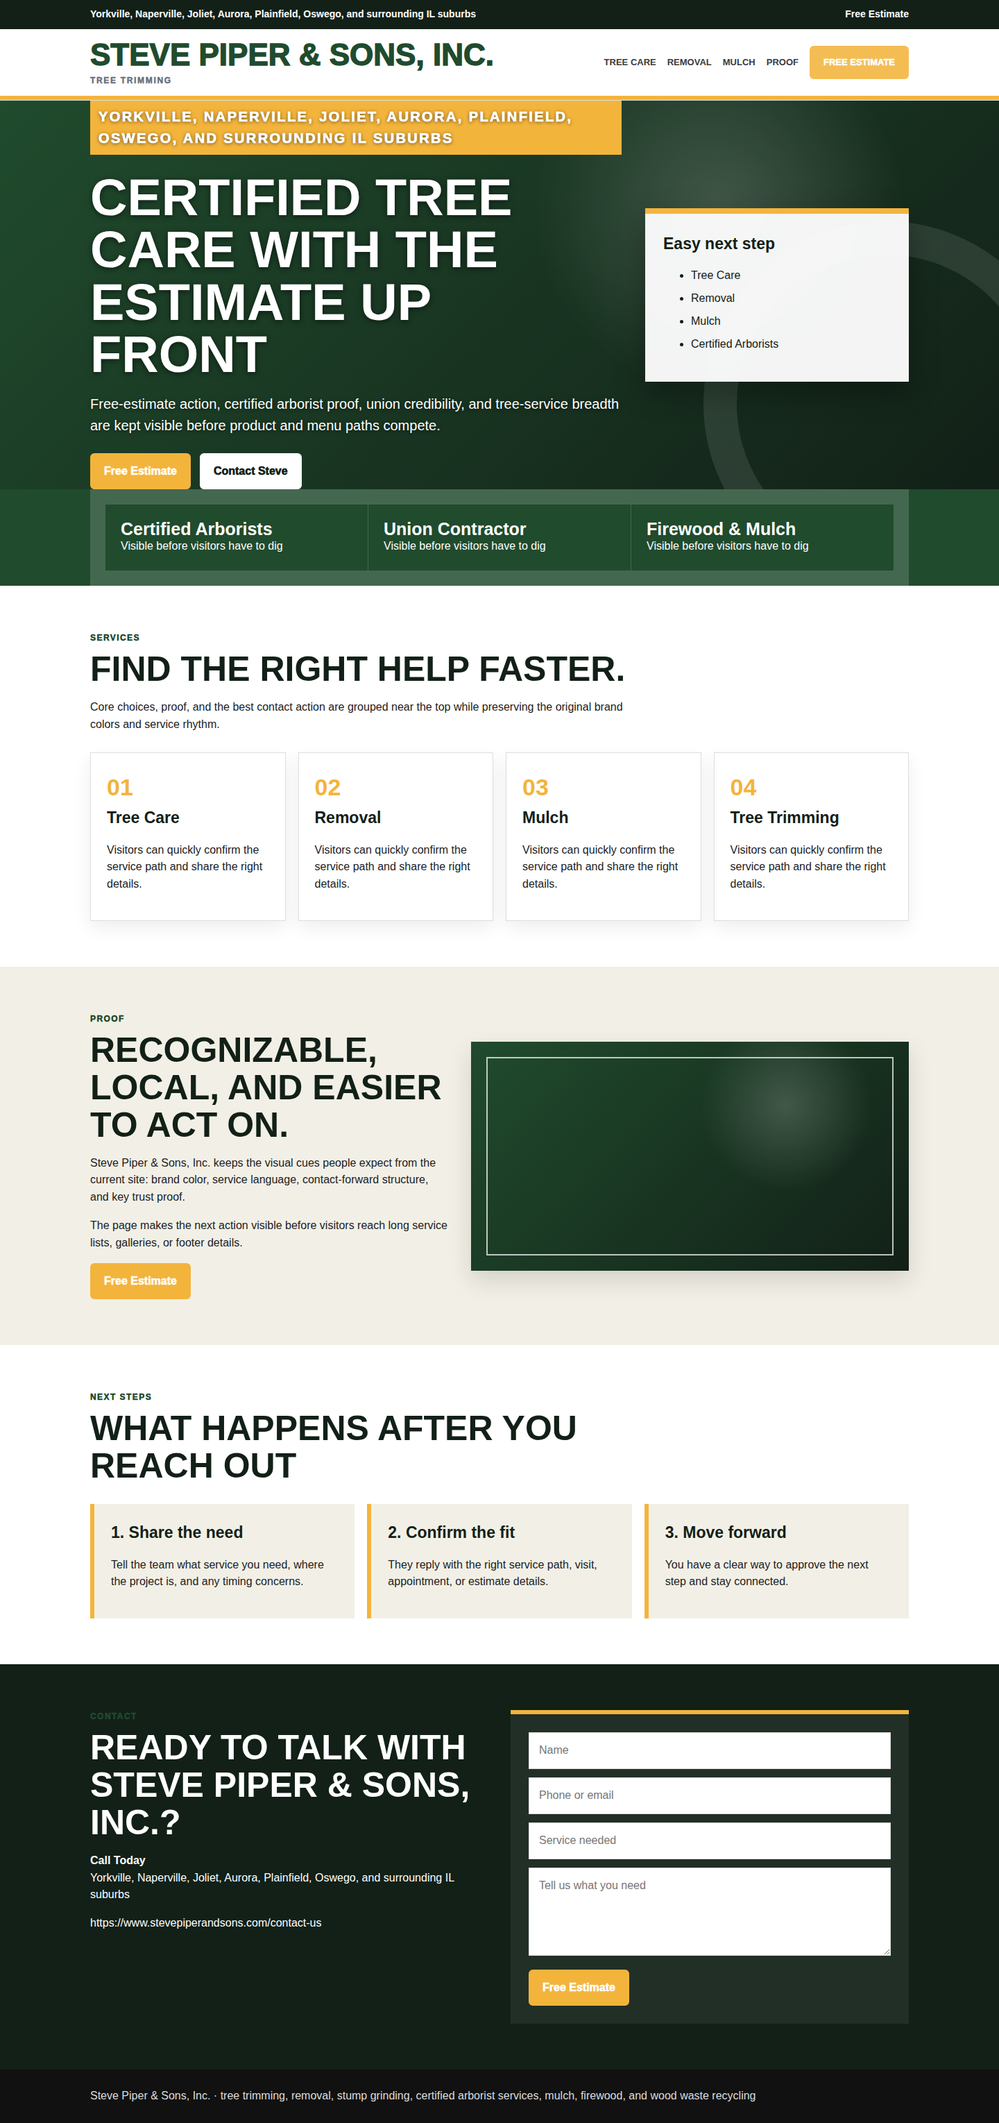
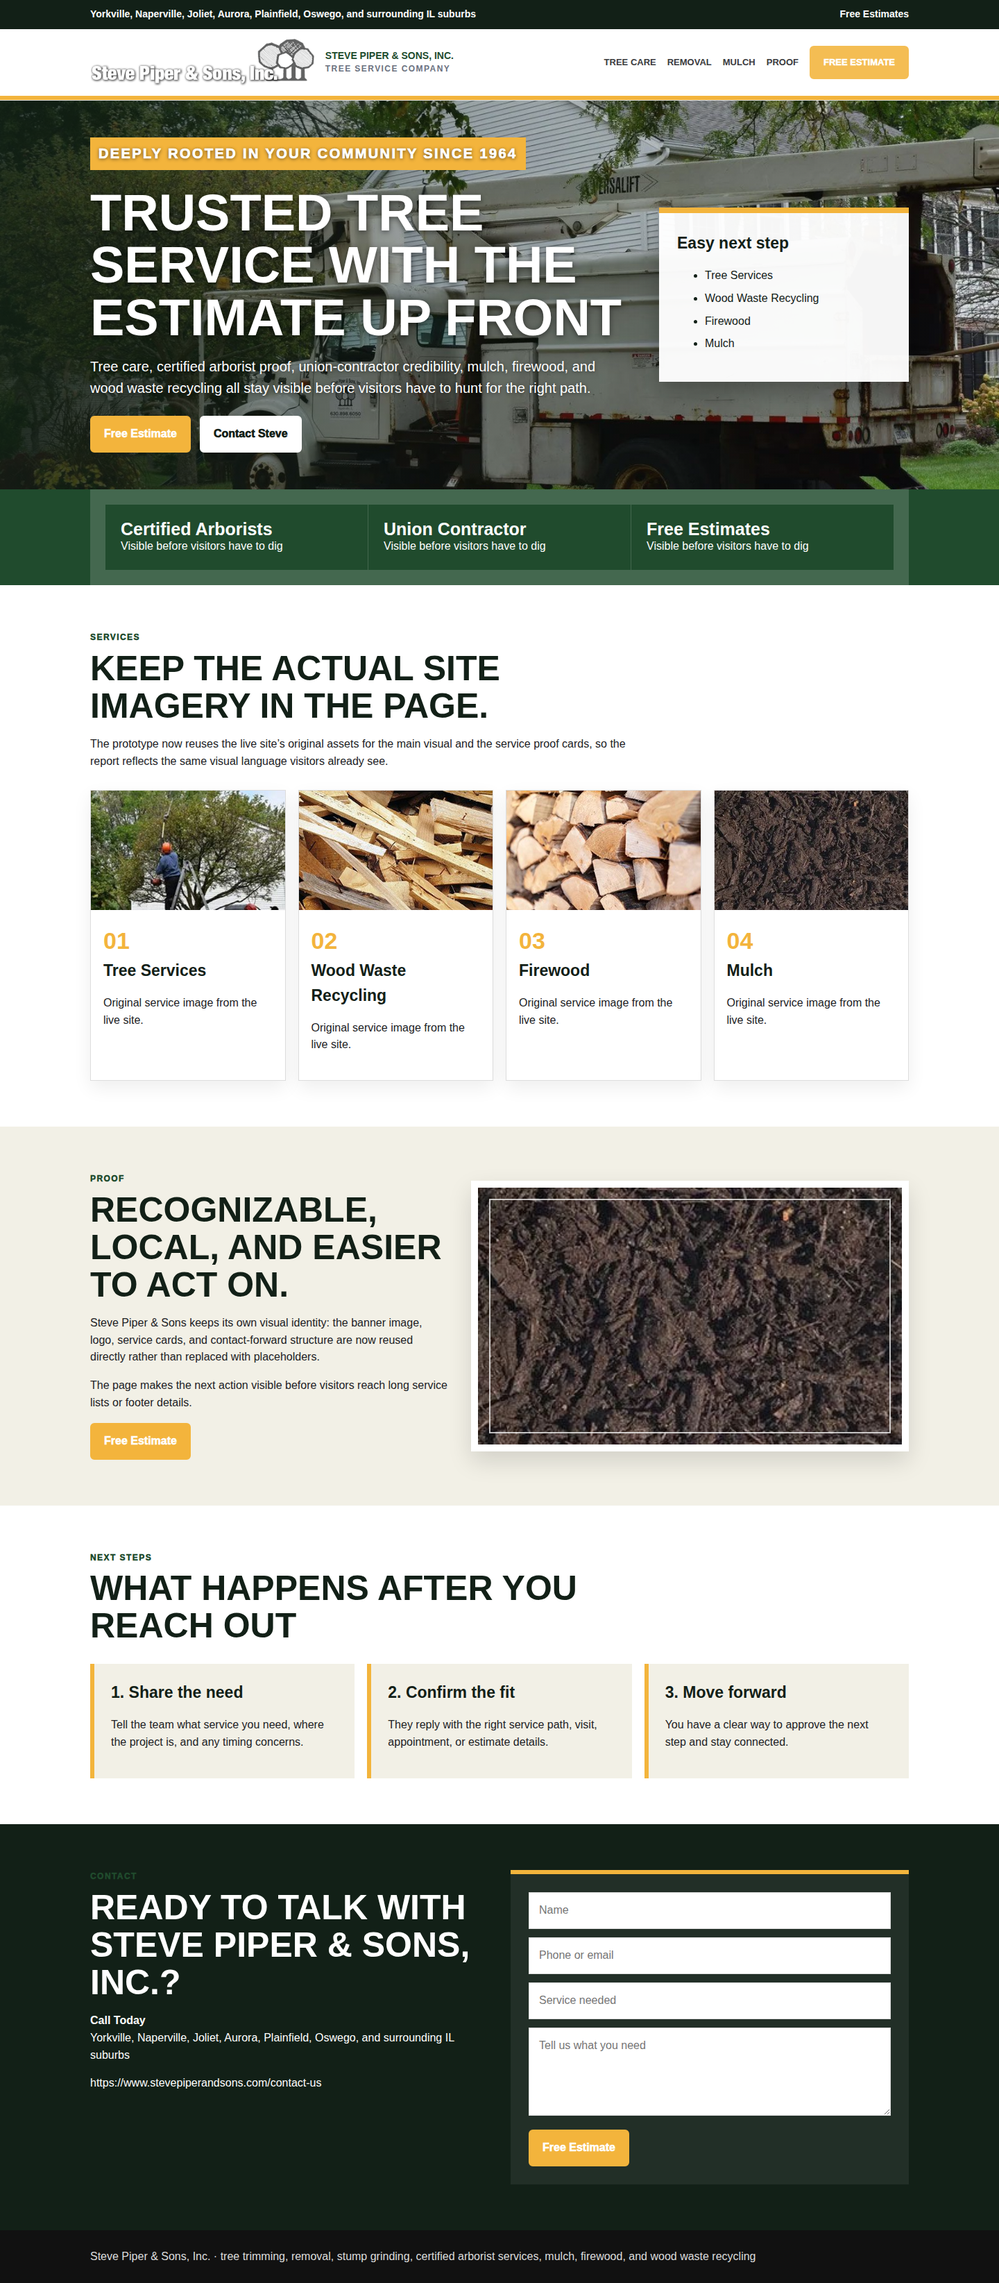
Fix Steve Piper prototype image reuse and report screenshot

diff --git a/prototypes/2026-04-29-0110-overnight-10/steve-piper-and-sons/index.html b/prototypes/2026-04-29-0110-overnight-10/steve-piper-and-sons/index.html
@@ -1,1 +1,2 @@
-<!doctype html><html lang="en"><head><meta charset="utf-8"><meta name="viewport" content="width=device-width, initial-scale=1"><title>Steve Piper &amp; Sons, Inc. | tree trimming, removal, stump grinding, certified arborist services, mulch, firewood, and wood waste recycling</title><meta name="description" content="Steve Piper &amp; Sons, Inc. presents tree trimming, removal, stump grinding, certified arborist services, mulch, firewood, and wood waste recycling options, proof, and a clear next step."><style>*{box-sizing:border-box}html{scroll-behavior:smooth}body{margin:0;font-family:Arial, Helvetica, sans-serif;background:#f2f0e6;color:#202124;line-height:1.55}a{text-decoration:none;color:inherit}.wrap{width:min(1180px,calc(100% - 36px));margin:auto}.top{background:#122017;color:#fff;font-size:14px;font-weight:850}.top .wrap{display:flex;justify-content:space-between;gap:16px;padding:10px 0;flex-wrap:wrap}.header{background:#fff;border-bottom:1px solid #dedede}.head{display:grid;grid-template-columns:1fr auto;gap:24px;align-items:center;min-height:96px}.brand{font-size:clamp(28px,3.8vw,44px);font-weight:950;line-height:1.02;color:#204b2d;text-transform:uppercase}.brand small{display:block;color:#6b7280;font-size:12px;letter-spacing:.14em;text-transform:uppercase;margin-top:8px}.nav{display:flex;gap:16px;align-items:center;justify-content:flex-end;flex-wrap:wrap;font-size:13px;font-weight:900;text-transform:uppercase}.nav a{opacity:.88}.btn{display:inline-block;background:#f3b43c;border:2px solid #f3b43c;color:#fff;font-weight:950;padding:12px 18px;border-radius:6px}.bar{height:6px;background:#f3b43c}.hero{min-height:555px;color:#fff;background:radial-gradient(circle at 72% 28%,rgba(255,255,255,.18),transparent 24%),linear-gradient(135deg,#204b2d,#122017);position:relative;overflow:hidden;display:flex;align-items:center}.hero:after{content:"";position:absolute;right:-100px;bottom:-140px;width:430px;height:430px;border-radius:50%;border:48px solid rgba(255,255,255,.10)}.hero .wrap{position:relative;z-index:1;display:grid;grid-template-columns:1fr 380px;gap:34px;align-items:center}.eyebrow{display:inline-block;background:#f3b43c;color:#fff;font-size:12px;font-weight:950;letter-spacing:.12em;text-transform:uppercase;padding:8px 12px;margin-bottom:14px}.hero h1{font-size:clamp(42px,6vw,74px);line-height:1.02;margin:0 0 18px;text-transform:uppercase;text-shadow:0 2px 8px #0008}.hero p{font-size:20px;max-width:780px;text-shadow:0 1px 5px #0008;margin:0 0 24px}.actions{display:flex;gap:13px;flex-wrap:wrap}.btn.secondary{background:#fff;border-color:#fff;color:#122017}.panel{background:rgba(255,255,255,.95);color:#122017;padding:26px;border-top:8px solid #f3b43c;box-shadow:0 16px 40px #0005}.panel h3{margin:0 0 10px}.panel li{margin:8px 0}.trust{background:#204b2d;color:#fff}.trust .wrap{display:grid;grid-template-columns:repeat(3,1fr);gap:1px;background:#ffffff2a}.trust div{padding:22px;background:#204b2d}.trust strong{display:block;font-size:25px;line-height:1.04}.section{background:#fff;padding:66px 0}.section.band{background:#f2f0e6}.intro{max-width:780px;margin-bottom:28px}.kicker{color:#204b2d;font-size:12px;font-weight:950;text-transform:uppercase;letter-spacing:.12em;margin-bottom:8px}h2{font-size:clamp(30px,4vw,50px);line-height:1.08;margin:0 0 14px;color:#122017;text-transform:uppercase}h3{margin:0 0 8px;color:#122017;font-size:23px}.cards{display:grid;grid-template-columns:repeat(4,1fr);gap:18px}.card{background:#fff;border:1px solid #ddd;padding:23px;box-shadow:0 10px 25px #00000012}.card b{display:block;font-size:34px;color:#f3b43c}.split{display:grid;grid-template-columns:.9fr 1.1fr;gap:32px;align-items:center}.photo{min-height:330px;background:radial-gradient(circle at 72% 28%,rgba(255,255,255,.18),transparent 24%),linear-gradient(135deg,#204b2d,#122017);position:relative;box-shadow:0 14px 32px #0002}.photo:before{content:"";position:absolute;inset:22px;border:2px solid rgba(255,255,255,.72)}.steps{display:grid;grid-template-columns:repeat(3,1fr);gap:18px}.step{background:#f2f0e6;padding:24px;border-left:6px solid #f3b43c}.contact{background:#122017;color:#fff}.contact h2{color:#fff}.contactgrid{display:grid;grid-template-columns:1fr 1fr;gap:32px}.form{background:#ffffff12;border-top:6px solid #f3b43c;padding:26px}.field{width:100%;padding:13px 14px;margin-bottom:12px;border:1px solid #ddd;font:inherit}.footer{padding:26px 0;background:#111;color:#ddd}@media(max-width:900px){.head,.hero .wrap,.split,.contactgrid{grid-template-columns:1fr}.cards,.steps,.trust .wrap{grid-template-columns:1fr}.nav a:not(.btn){display:none}.hero{min-height:480px}}</style></head><body><div class="top"><div class="wrap"><span>Yorkville, Naperville, Joliet, Aurora, Plainfield, Oswego, and surrounding IL suburbs</span><span>Free Estimate</span></div></div><header class="header"><div class="wrap head"><div class="brand">Steve Piper &amp; Sons, Inc.<small>tree trimming</small></div><nav class="nav"><a href="#services">Tree Care</a><a href="#services">Removal</a><a href="#services">Mulch</a><a href="#proof">Proof</a><a class="btn" href="#contact">Free Estimate</a></nav></div><div class="bar"></div></header><main><section class="hero"><div class="wrap"><div><p class="eyebrow">Yorkville, Naperville, Joliet, Aurora, Plainfield, Oswego, and surrounding IL suburbs</p><h1>Certified Tree Care With The Estimate Up Front</h1><p>Free-estimate action, certified arborist proof, union credibility, and tree-service breadth are kept visible before product and menu paths compete.</p><div class="actions"><a class="btn" href="#contact">Free Estimate</a><a class="btn secondary" href="https://www.stevepiperandsons.com/contact-us">Contact Steve</a></div></div><aside class="panel"><h3>Easy next step</h3><ul><li>Tree Care</li><li>Removal</li><li>Mulch</li><li>Certified Arborists</li></ul></aside></div></section><section class="trust"><div class="wrap"><div><strong>Certified Arborists</strong><span>Visible before visitors have to dig</span></div><div><strong>Union Contractor</strong><span>Visible before visitors have to dig</span></div><div><strong>Firewood &amp; Mulch</strong><span>Visible before visitors have to dig</span></div></div></section><section class="section" id="services"><div class="wrap"><div class="intro"><div class="kicker">Services</div><h2>Find the right help faster.</h2><p>Core choices, proof, and the best contact action are grouped near the top while preserving the original brand colors and service rhythm.</p></div><div class="cards"><article class="card"><b>01</b><h3>Tree Care</h3><p>Visitors can quickly confirm the service path and share the right details.</p></article><article class="card"><b>02</b><h3>Removal</h3><p>Visitors can quickly confirm the service path and share the right details.</p></article><article class="card"><b>03</b><h3>Mulch</h3><p>Visitors can quickly confirm the service path and share the right details.</p></article><article class="card"><b>04</b><h3>Tree Trimming</h3><p>Visitors can quickly confirm the service path and share the right details.</p></article></div></div></section><section class="section band" id="proof"><div class="wrap split"><div><div class="kicker">Proof</div><h2>Recognizable, local, and easier to act on.</h2><p>Steve Piper &amp; Sons, Inc. keeps the visual cues people expect from the current site: brand color, service language, contact-forward structure, and key trust proof.</p><p>The page makes the next action visible before visitors reach long service lists, galleries, or footer details.</p><a class="btn" href="#contact">Free Estimate</a></div><div class="photo" role="img" aria-label="Steve Piper &amp; Sons, Inc. service visual"></div></div></section><section class="section"><div class="wrap"><div class="intro"><div class="kicker">Next steps</div><h2>What happens after you reach out</h2></div><div class="steps"><div class="step"><h3>1. Share the need</h3><p>Tell the team what service you need, where the project is, and any timing concerns.</p></div><div class="step"><h3>2. Confirm the fit</h3><p>They reply with the right service path, visit, appointment, or estimate details.</p></div><div class="step"><h3>3. Move forward</h3><p>You have a clear way to approve the next step and stay connected.</p></div></div></div></section><section class="section contact" id="contact"><div class="wrap contactgrid"><div><div class="kicker">Contact</div><h2>Ready to talk with Steve Piper &amp; Sons, Inc.?</h2><p><strong>Call Today</strong><br>Yorkville, Naperville, Joliet, Aurora, Plainfield, Oswego, and surrounding IL suburbs</p><p><a href="https://www.stevepiperandsons.com/contact-us">https://www.stevepiperandsons.com/contact-us</a></p></div><div class="form"><input class="field" placeholder="Name"><input class="field" placeholder="Phone or email"><input class="field" placeholder="Service needed"><textarea class="field" rows="4" placeholder="Tell us what you need"></textarea><a class="btn" href="https://www.stevepiperandsons.com/contact-us">Free Estimate</a></div></div></section></main><footer class="footer"><div class="wrap">Steve Piper &amp; Sons, Inc. · tree trimming, removal, stump grinding, certified arborist services, mulch, firewood, and wood waste recycling</div></footer></body></html>
+<!doctype html><html lang="en"><head><meta charset="utf-8"><meta name="viewport" content="width=device-width, initial-scale=1"><title>Steve Piper &amp; Sons, Inc. | tree trimming, removal, stump grinding, certified arborist services, mulch, firewood, and wood waste recycling</title><meta name="description" content="Steve Piper &amp; Sons, Inc. presents tree trimming, removal, stump grinding, certified arborist services, mulch, firewood, and wood waste recycling options, proof, and a clear next step."><style>*{box-sizing:border-box}html{scroll-behavior:smooth}body{margin:0;font-family:Arial, Helvetica, sans-serif;background:#f2f0e6;color:#202124;line-height:1.55}a{text-decoration:none;color:inherit}.wrap{width:min(1180px,calc(100% - 36px));margin:auto}.top{background:#122017;color:#fff;font-size:14px;font-weight:850}.top .wrap{display:flex;justify-content:space-between;gap:16px;padding:10px 0;flex-wrap:wrap}.header{background:#fff;border-bottom:1px solid #dedede}.head{display:grid;grid-template-columns:auto 1fr;gap:18px;align-items:center;min-height:96px}.logo{height:68px;width:auto;display:block}.nav{display:flex;gap:16px;align-items:center;justify-content:flex-end;flex-wrap:wrap;font-size:13px;font-weight:900;text-transform:uppercase}.nav a{opacity:.88}.btn{display:inline-block;background:#f3b43c;border:2px solid #f3b43c;color:#fff;font-weight:950;padding:12px 18px;border-radius:6px}.bar{height:6px;background:#f3b43c}.hero{min-height:560px;color:#fff;background:linear-gradient(90deg,rgba(18,32,23,.82),rgba(18,32,23,.36) 42%,rgba(18,32,23,.08)),url("assets/banner.jpg") center/cover no-repeat;position:relative;overflow:hidden;display:flex;align-items:center}.hero .wrap{position:relative;z-index:1;display:grid;grid-template-columns:1fr 360px;gap:34px;align-items:center}.eyebrow{display:inline-block;background:#f3b43c;color:#fff;font-size:12px;font-weight:950;letter-spacing:.12em;text-transform:uppercase;padding:8px 12px;margin-bottom:14px}.hero h1{font-size:clamp(42px,6vw,74px);line-height:1.02;margin:0 0 18px;text-transform:uppercase;text-shadow:0 2px 8px #0008}.hero p{font-size:20px;max-width:780px;text-shadow:0 1px 5px #0008;margin:0 0 24px}.actions{display:flex;gap:13px;flex-wrap:wrap}.btn.secondary{background:#fff;border-color:#fff;color:#122017}.panel{background:rgba(255,255,255,.96);color:#122017;padding:26px;border-top:8px solid #f3b43c;box-shadow:0 16px 40px #0005}.panel h3{margin:0 0 10px}.panel li{margin:8px 0}.trust{background:#204b2d;color:#fff}.trust .wrap{display:grid;grid-template-columns:repeat(3,1fr);gap:1px;background:#ffffff2a}.trust div{padding:22px;background:#204b2d}.trust strong{display:block;font-size:25px;line-height:1.04}.section{background:#fff;padding:66px 0}.section.band{background:#f2f0e6}.intro{max-width:780px;margin-bottom:28px}.kicker{color:#204b2d;font-size:12px;font-weight:950;text-transform:uppercase;letter-spacing:.12em;margin-bottom:8px}h2{font-size:clamp(30px,4vw,50px);line-height:1.08;margin:0 0 14px;color:#122017;text-transform:uppercase}h3{margin:0 0 8px;color:#122017;font-size:23px}.cards{display:grid;grid-template-columns:repeat(4,1fr);gap:18px}.card{background:#fff;border:1px solid #ddd;padding:0;box-shadow:0 10px 25px #00000012;overflow:hidden}.card img{display:block;width:100%;height:172px;object-fit:cover}.card .pad{padding:18px 18px 22px}.card b{display:block;font-size:34px;color:#f3b43c}.split{display:grid;grid-template-columns:.9fr 1.1fr;gap:32px;align-items:center}.photo{min-height:390px;background:#ddd url("assets/mulch.jpg") center/cover no-repeat;position:relative;box-shadow:0 14px 32px #0002;border:10px solid #fff}.photo:before{content:"";position:absolute;inset:16px;border:2px solid rgba(255,255,255,.72)}.steps{display:grid;grid-template-columns:repeat(3,1fr);gap:18px}.step{background:#f2f0e6;padding:24px;border-left:6px solid #f3b43c}.contact{background:#122017;color:#fff}.contact h2{color:#fff}.contactgrid{display:grid;grid-template-columns:1fr 1fr;gap:32px}.form{background:#ffffff12;border-top:6px solid #f3b43c;padding:26px}.field{width:100%;padding:13px 14px;margin-bottom:12px;border:1px solid #ddd;font:inherit}.footer{padding:26px 0;background:#111;color:#ddd}.logo-row{display:flex;align-items:center;gap:16px}.brand-text{font-size:14px;font-weight:900;line-height:1.1;color:#204b2d;text-transform:uppercase}.brand-text small{display:block;color:#6b7280;font-size:12px;letter-spacing:.12em;text-transform:uppercase;margin-top:4px}@media(max-width:900px){.head,.hero .wrap,.split,.contactgrid{grid-template-columns:1fr}.cards,.steps,.trust .wrap{grid-template-columns:1fr}.nav a:not(.btn){display:none}.hero{min-height:480px}}
+</style></head><body><div class="top"><div class="wrap"><span>Yorkville, Naperville, Joliet, Aurora, Plainfield, Oswego, and surrounding IL suburbs</span><span>Free Estimates</span></div></div><header class="header"><div class="wrap head"><div class="logo-row"><img class="logo" src="assets/logo.png" alt="Steve Piper & Sons, Inc. logo"><div class="brand-text">Steve Piper & Sons, Inc.<small>tree service company</small></div></div><nav class="nav"><a href="#services">Tree Care</a><a href="#services">Removal</a><a href="#services">Mulch</a><a href="#proof">Proof</a><a class="btn" href="#contact">Free Estimate</a></nav></div><div class="bar"></div></header><main><section class="hero"><div class="wrap"><div><p class="eyebrow">Deeply rooted in your community since 1964</p><h1>Trusted Tree Service With The Estimate Up Front</h1><p>Tree care, certified arborist proof, union-contractor credibility, mulch, firewood, and wood waste recycling all stay visible before visitors have to hunt for the right path.</p><div class="actions"><a class="btn" href="#contact">Free Estimate</a><a class="btn secondary" href="https://www.stevepiperandsons.com/contact-us">Contact Steve</a></div></div><aside class="panel"><h3>Easy next step</h3><ul><li>Tree Services</li><li>Wood Waste Recycling</li><li>Firewood</li><li>Mulch</li></ul></aside></div></section><section class="trust"><div class="wrap"><div><strong>Certified Arborists</strong><span>Visible before visitors have to dig</span></div><div><strong>Union Contractor</strong><span>Visible before visitors have to dig</span></div><div><strong>Free Estimates</strong><span>Visible before visitors have to dig</span></div></div></section><section class="section" id="services"><div class="wrap"><div class="intro"><div class="kicker">Services</div><h2>Keep the actual site imagery in the page.</h2><p>The prototype now reuses the live site’s original assets for the main visual and the service proof cards, so the report reflects the same visual language visitors already see.</p></div><div class="cards"><article class="card"><img src="assets/tree-services.jpg" alt="Tree Services"><div class="pad"><b>01</b><h3>Tree Services</h3><p>Original service image from the live site.</p></div></article><article class="card"><img src="assets/wood-waste-recycling.jpg" alt="Wood Waste Recycling"><div class="pad"><b>02</b><h3>Wood Waste Recycling</h3><p>Original service image from the live site.</p></div></article><article class="card"><img src="assets/firewood.jpg" alt="Firewood"><div class="pad"><b>03</b><h3>Firewood</h3><p>Original service image from the live site.</p></div></article><article class="card"><img src="assets/mulch.jpg" alt="Mulch"><div class="pad"><b>04</b><h3>Mulch</h3><p>Original service image from the live site.</p></div></article></div></div></section><section class="section band" id="proof"><div class="wrap split"><div><div class="kicker">Proof</div><h2>Recognizable, local, and easier to act on.</h2><p>Steve Piper & Sons keeps its own visual identity: the banner image, logo, service cards, and contact-forward structure are now reused directly rather than replaced with placeholders.</p><p>The page makes the next action visible before visitors reach long service lists or footer details.</p><a class="btn" href="#contact">Free Estimate</a></div><div class="photo" role="img" aria-label="Steve Piper & Sons mulch image from the live site"></div></div></section><section class="section"><div class="wrap"><div class="intro"><div class="kicker">Next steps</div><h2>What happens after you reach out</h2></div><div class="steps"><div class="step"><h3>1. Share the need</h3><p>Tell the team what service you need, where the project is, and any timing concerns.</p></div><div class="step"><h3>2. Confirm the fit</h3><p>They reply with the right service path, visit, appointment, or estimate details.</p></div><div class="step"><h3>3. Move forward</h3><p>You have a clear way to approve the next step and stay connected.</p></div></div></div></section><section class="section contact" id="contact"><div class="wrap contactgrid"><div><div class="kicker">Contact</div><h2>Ready to talk with Steve Piper & Sons, Inc.?</h2><p><strong>Call Today</strong><br>Yorkville, Naperville, Joliet, Aurora, Plainfield, Oswego, and surrounding IL suburbs</p><p><a href="https://www.stevepiperandsons.com/contact-us">https://www.stevepiperandsons.com/contact-us</a></p></div><div class="form"><input class="field" placeholder="Name"><input class="field" placeholder="Phone or email"><input class="field" placeholder="Service needed"><textarea class="field" rows="4" placeholder="Tell us what you need"></textarea><a class="btn" href="https://www.stevepiperandsons.com/contact-us">Free Estimate</a></div></div></section></main><footer class="footer"><div class="wrap">Steve Piper & Sons, Inc. · tree trimming, removal, stump grinding, certified arborist services, mulch, firewood, and wood waste recycling</div></footer></body></html>

diff --git a/scripts/build-dashboard.js b/scripts/build-dashboard.js
@@ -10,7 +10,7 @@ function exists(p){return fs.existsSync(path.join(root,p));}
 function relFile(p){return p && exists(p) ? p : ''}
 function rawUrl(p){return p ? `${rawBase}/${p}` : ''}
 function blobUrl(p){return p ? `${repo}/blob/${branch}/${p}` : ''}
-function previewUrl(p){return p ? `${previewBase}${rawUrl(p)}` : ''}
+function previewUrl(p){return p ? `${previewBase}${blobUrl(p)}` : ''}
 function isPackaged(batch, slug) {
   return [
     `opportunities/${batch}/${slug}-audit.md`,
@@ -74,8 +74,8 @@ for (const batch of batches) {
       <h2>${esc(it.name || slug)}</h2>
       <p>${esc(it.summary || it.angle || 'Audit/prototype package prepared for review.')}</p>
       <div class="shots">
-        <figure class="shot">${target ? `<img src="${esc(target)}" alt="Target screenshot for ${esc(it.name||slug)}">` : `<div class="placeholder">Target screenshot unavailable</div>`}<figcaption>Current site</figcaption></figure>
-        <figure class="shot">${pshot ? `<img src="${esc(pshot)}" alt="Prototype screenshot for ${esc(it.name||slug)}">` : `<div class="placeholder">Prototype screenshot unavailable</div>`}<figcaption>Prototype</figcaption></figure>
+        <figure class="shot"><figcaption>Current site</figcaption>${target ? `<img src="${esc(target)}" alt="Target screenshot for ${esc(it.name||slug)}">` : `<div class="placeholder">Target screenshot unavailable</div>`}</figure>
+        <figure class="shot"><figcaption>Prototype</figcaption>${pshot ? `<img src="${esc(pshot)}" alt="Prototype screenshot for ${esc(it.name||slug)}">` : `<div class="placeholder">Prototype screenshot unavailable</div>`}</figure>
       </div>
       <div class="links">
         ${it.url ? `<a href="${esc(it.url)}">Original site</a>` : ''}
